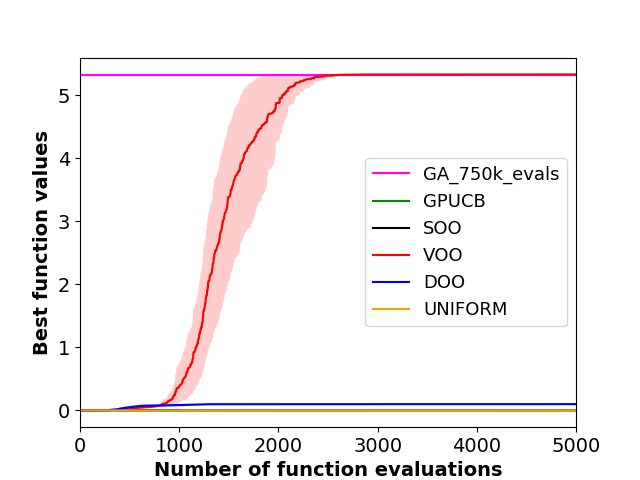
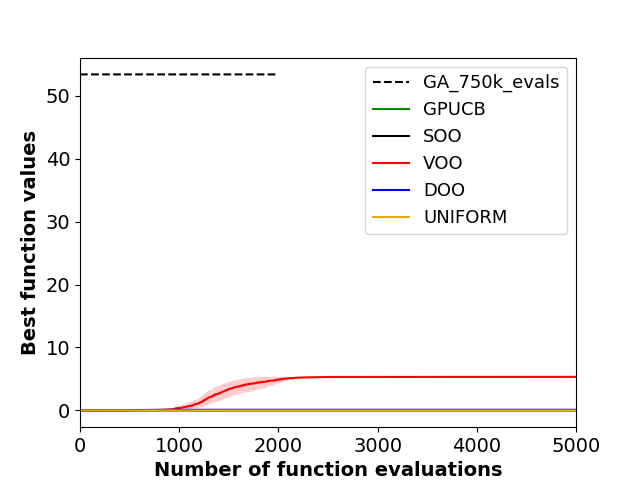
getting rid of breakpoint

diff --git a/plotters/plot_optimization_algorithms.py b/plotters/plot_optimization_algorithms.py
@@ -123,20 +123,20 @@ def plot_across_algorithms():
         sns.tsplot([0]*2000, range(2000), ci=95, condition='Optimum', color='magenta')
     else:
         if n_dim == 3:
-            sns.tsplot([53.404] * 2000, range(2000), ci=95, condition='GA_1.3k_evals', color='green')
+            #sns.tsplot([53.404] * 2000, range(2000), ci=95, condition='GA_1.3k_evals', color='green')
+            plt.plot(range(2000), [53.404] * 2000, linestyle='--', color='black', label='GA_1.3k_evals')
         elif n_dim == 10:
             #sns.tsplot([] * 2000, range(2000), ci=95, condition='GA_1.3k_evals', color='magenta')
             pass
         elif n_dim == 20:
-            sns.tsplot([5.32] * 5000, range(5000), ci=95, condition='GA_750k_evals', color='purple')
+            #sns.tsplot([5.32] * 5000, range(5000), ci=95, condition='GA_750k_evals', color='purple')
+            plt.plot(range(2000), [53.404] * 2000, linestyle='--', color='black', label='GA_750k_evals')
 
     if args.obj_fcn == 'rastrigin':
         if n_dim == 10:
             sns.tsplot([-24]*2000, range(2000), ci=95, condition='GA_40k_evals', color='purple')
         elif n_dim == 20:
             sns.tsplot([-49]*2000, range(2000), ci=95, condition='GA_100k_evals', color='purple')
-
-
 
     if args.obj_fcn == 'shekel' and args.dim == 3:
         n_samples = 500

diff --git a/test_scripts/test_optimization_algorithms.py b/test_scripts/test_optimization_algorithms.py
@@ -241,12 +241,6 @@ def voo(explr_p):
     print "Max value found", np.max(evaled_y)
     print "Magnitude", np.linalg.norm(evaled_x[best_idx])
     print "Explr p", explr_p
-    import pdb;pdb.set_trace()
-
-    print evaled_x[best_idx]
-    optimal_x = A.mean(axis=0)
-    optimal_value = get_objective_function(optimal_x)
-    import pdb;pdb.set_trace()
 
     return evaled_x, evaled_y, max_y, times
 
@@ -262,7 +256,7 @@ class ShekelProblem:
 
 def genetic_algorithm(explr_p):
     prob = pg.problem(ShekelProblem())
-    sade = pg.sade(gen=1000000, ftol=1e-3, xtol=1e-3)
+    sade = pg.sade(gen=1000000, ftol=1e-10, xtol=1e-10)
     algo = pg.algorithm(sade)
     algo.set_verbosity(1)
     pop = pg.population(prob, size=1000)
